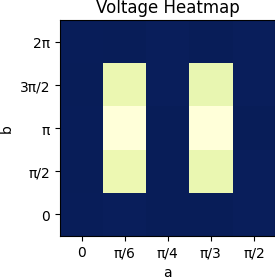
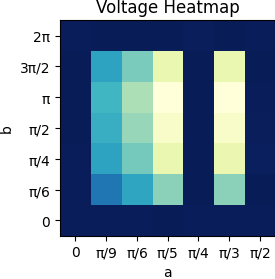
Implemented csv generator and improved plot of initial values of voltage and current for single time step circuit

diff --git a/q_memristor/circuits/memristor_1t.py b/q_memristor/circuits/memristor_1t.py
@@ -1,5 +1,7 @@
 from qiskit import QuantumCircuit, QuantumRegister, ClassicalRegister
 from qiskit.circuit.library import RYGate
+
+from q_memristor.circuits.csv_generator import csv_gen
 from q_memristor.circuits.simulator import IBMQSimulator
 from q_memristor.numerical.num_memristor import memristor
 import numpy as np
@@ -20,17 +22,22 @@ import matplotlib.pyplot as plt
 """
 
 backend_string = 'qasm_simulator'
-shots = 10000
+shots = 50000
 
 sim = IBMQSimulator(backend_string, shots)
 
 # Original parameters of a and b:
 a0 = np.pi / 4
 b0 = np.pi / 5
-a_states = [0, np.pi / 6, np.pi / 4, np.pi / 3, np.pi / 2]
-b_states = [0, np.pi / 2, np.pi, (3 * np.pi) / 2, 2 * np.pi]
-a_labels = ['0', '\u03C0/6', '\u03C0/4', '\u03C0/3', '\u03C0/2']
-b_labels = ['0', '\u03C0/2', '\u03C0', '3\u03C0/2', '2\u03C0']
+# a_states = [0, np.pi / 6, np.pi / 4, np.pi / 3, np.pi / 2]
+# b_states = [0, np.pi / 2, np.pi, (3 * np.pi) / 2, 2 * np.pi]
+a_states = [0, np.pi / 9, np.pi / 6, np.pi / 5, np.pi / 4, np.pi / 3, np.pi / 2]
+b_states = [0, np.pi / 6, np.pi / 4, np.pi / 2, np.pi, (3 * np.pi) / 2, 2 * np.pi]
+
+# a_labels = ['0', '\u03C0/6', '\u03C0/4', '\u03C0/3', '\u03C0/2']
+# b_labels = ['0', '\u03C0/2', '\u03C0', '3\u03C0/2', '2\u03C0']
+a_labels = ['0', '\u03C0/9', '\u03C0/6', '\u03C0/5', '\u03C0/4', '\u03C0/3', '\u03C0/2']
+b_labels = ['0', '\u03C0/6', '\u03C0/4', '\u03C0/2', '\u03C0', '3\u03C0/2', '2\u03C0']
 
 # print(a_labels)
 # print(b_labels)
@@ -109,7 +116,7 @@ if __name__ == '__main__':
         # print(circuit.decompose().draw())
 
         # Save image of final circuit
-        circuit.draw('mpl', filename='figures/1t_circuit.png')
+        # circuit.draw('mpl', filename='figures/1t_circuit.png')
 
         counts, measurements, exp_value = sim.execute_circuit(circuit)
 
@@ -143,6 +150,11 @@ if __name__ == '__main__':
     I_arr = np.array(I)
     exp_values_arr = np.array(exp_values)
 
+    # Save data into csv file
+    csvGen = csv_gen('data/data_mem_1t.csv')
+    csvGen.write_data(labels, V_arr, I_arr, exp_values_arr)
+
+    # Plot data in heatmap
     V_arr = V_arr.reshape(a_mesh.shape)
     I_arr = I_arr.reshape(a_mesh.shape)
     exp_values_arr = exp_values_arr.reshape(a_mesh.shape)

diff --git a/q_memristor/circuits/csv_generator.py b/q_memristor/circuits/csv_generator.py
@@ -1,0 +1,12 @@
+import csv
+
+class csv_gen:
+    def __init__(self, filename):
+        self.filename = filename
+
+    def write_data(self, *arrays):
+        data = zip(*arrays)
+        with open(self.filename, 'w', newline='') as file:
+            writer = csv.writer(file)
+            writer.writerows(data)
+        print(f"Data successfully written to {self.filename}.")
